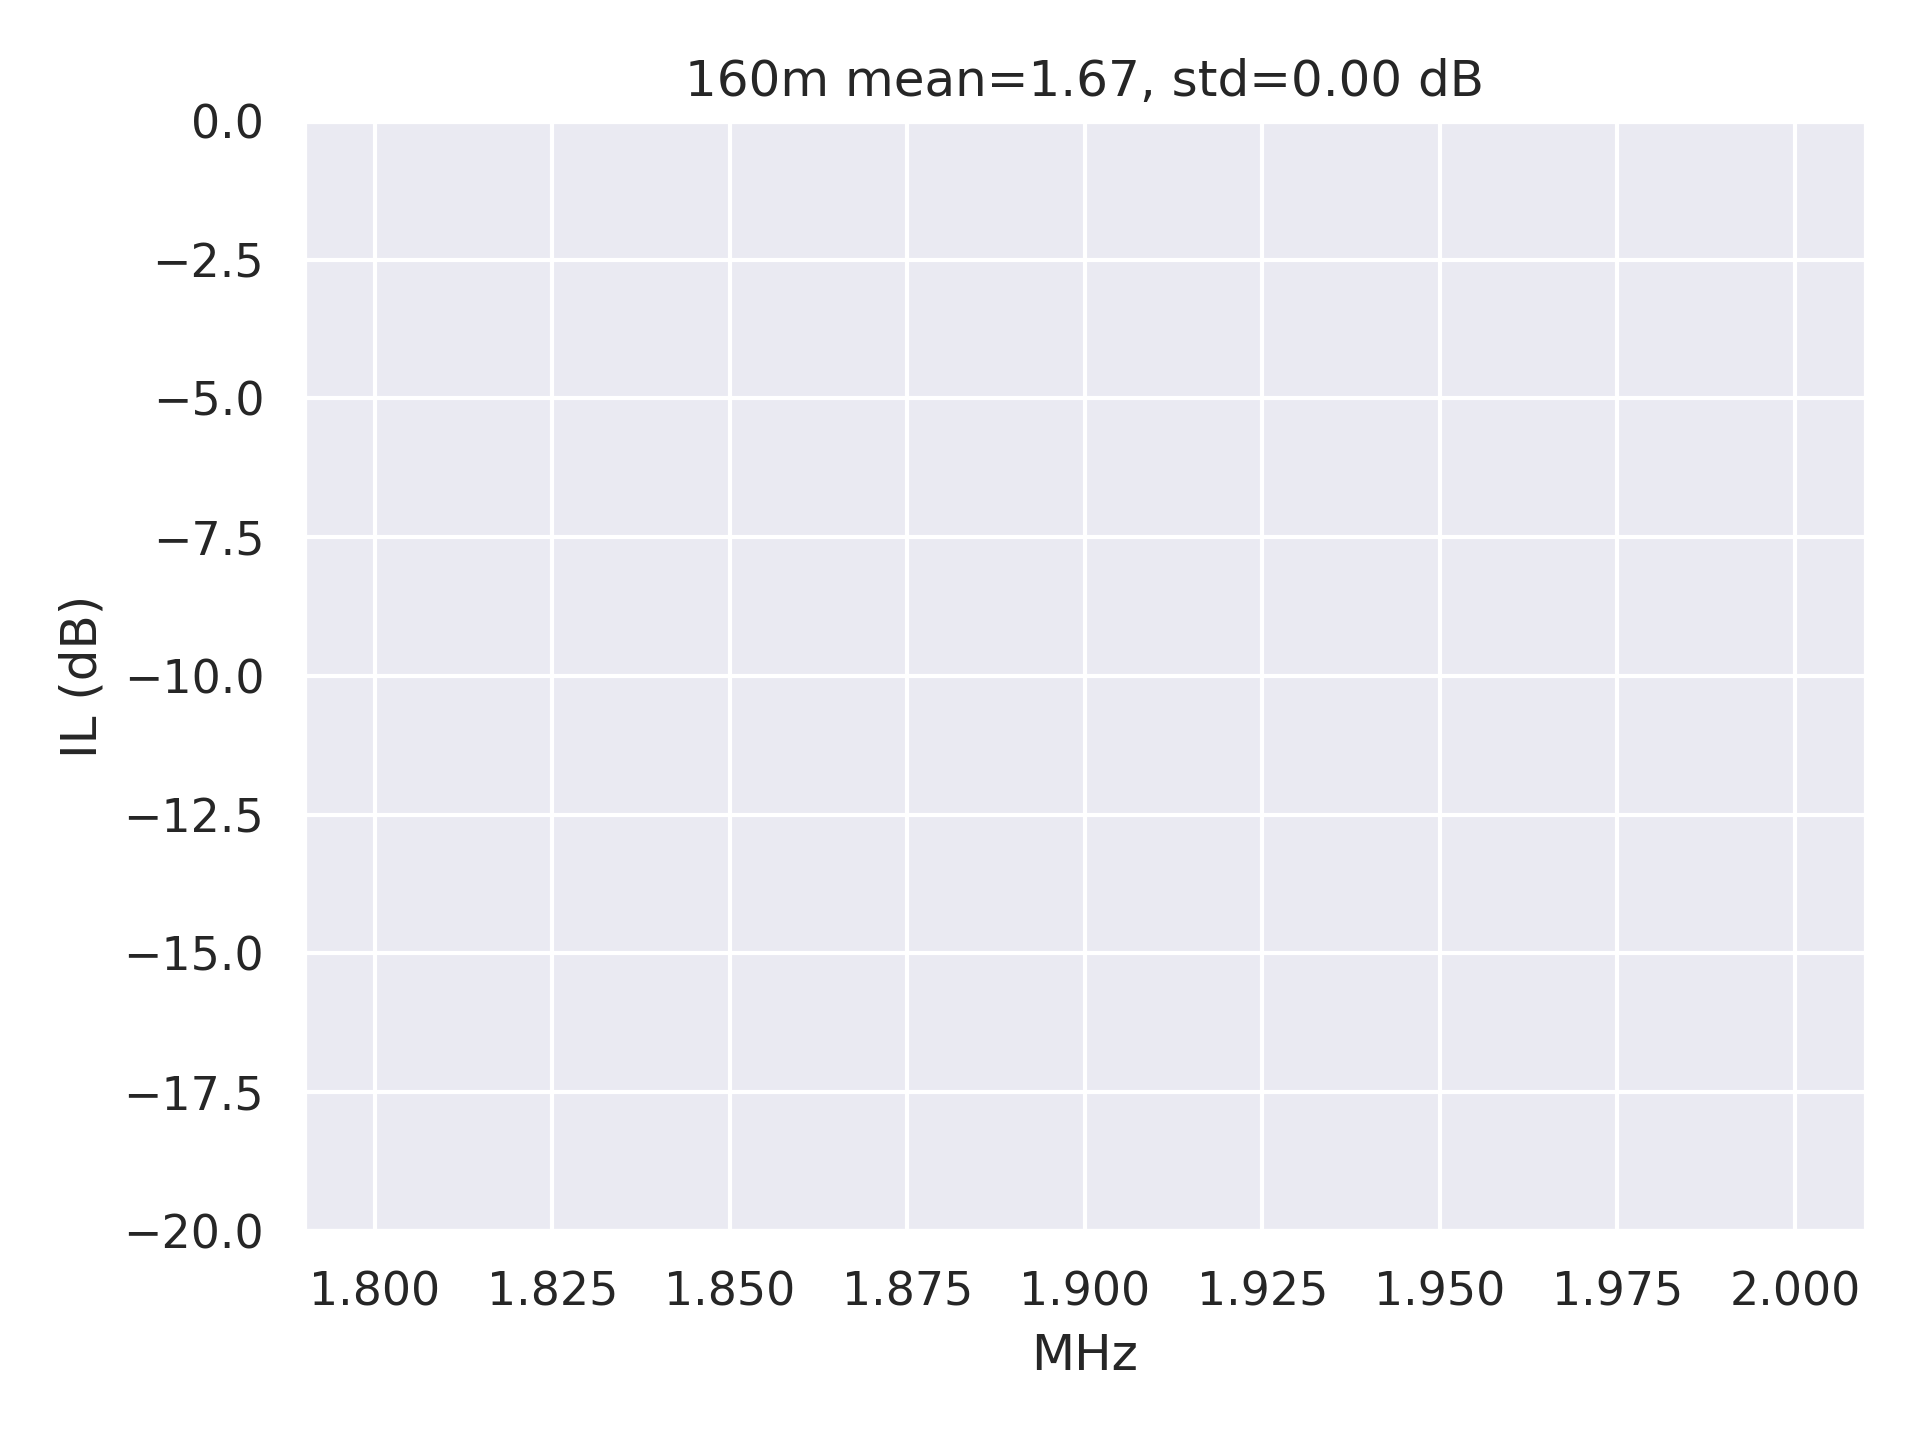
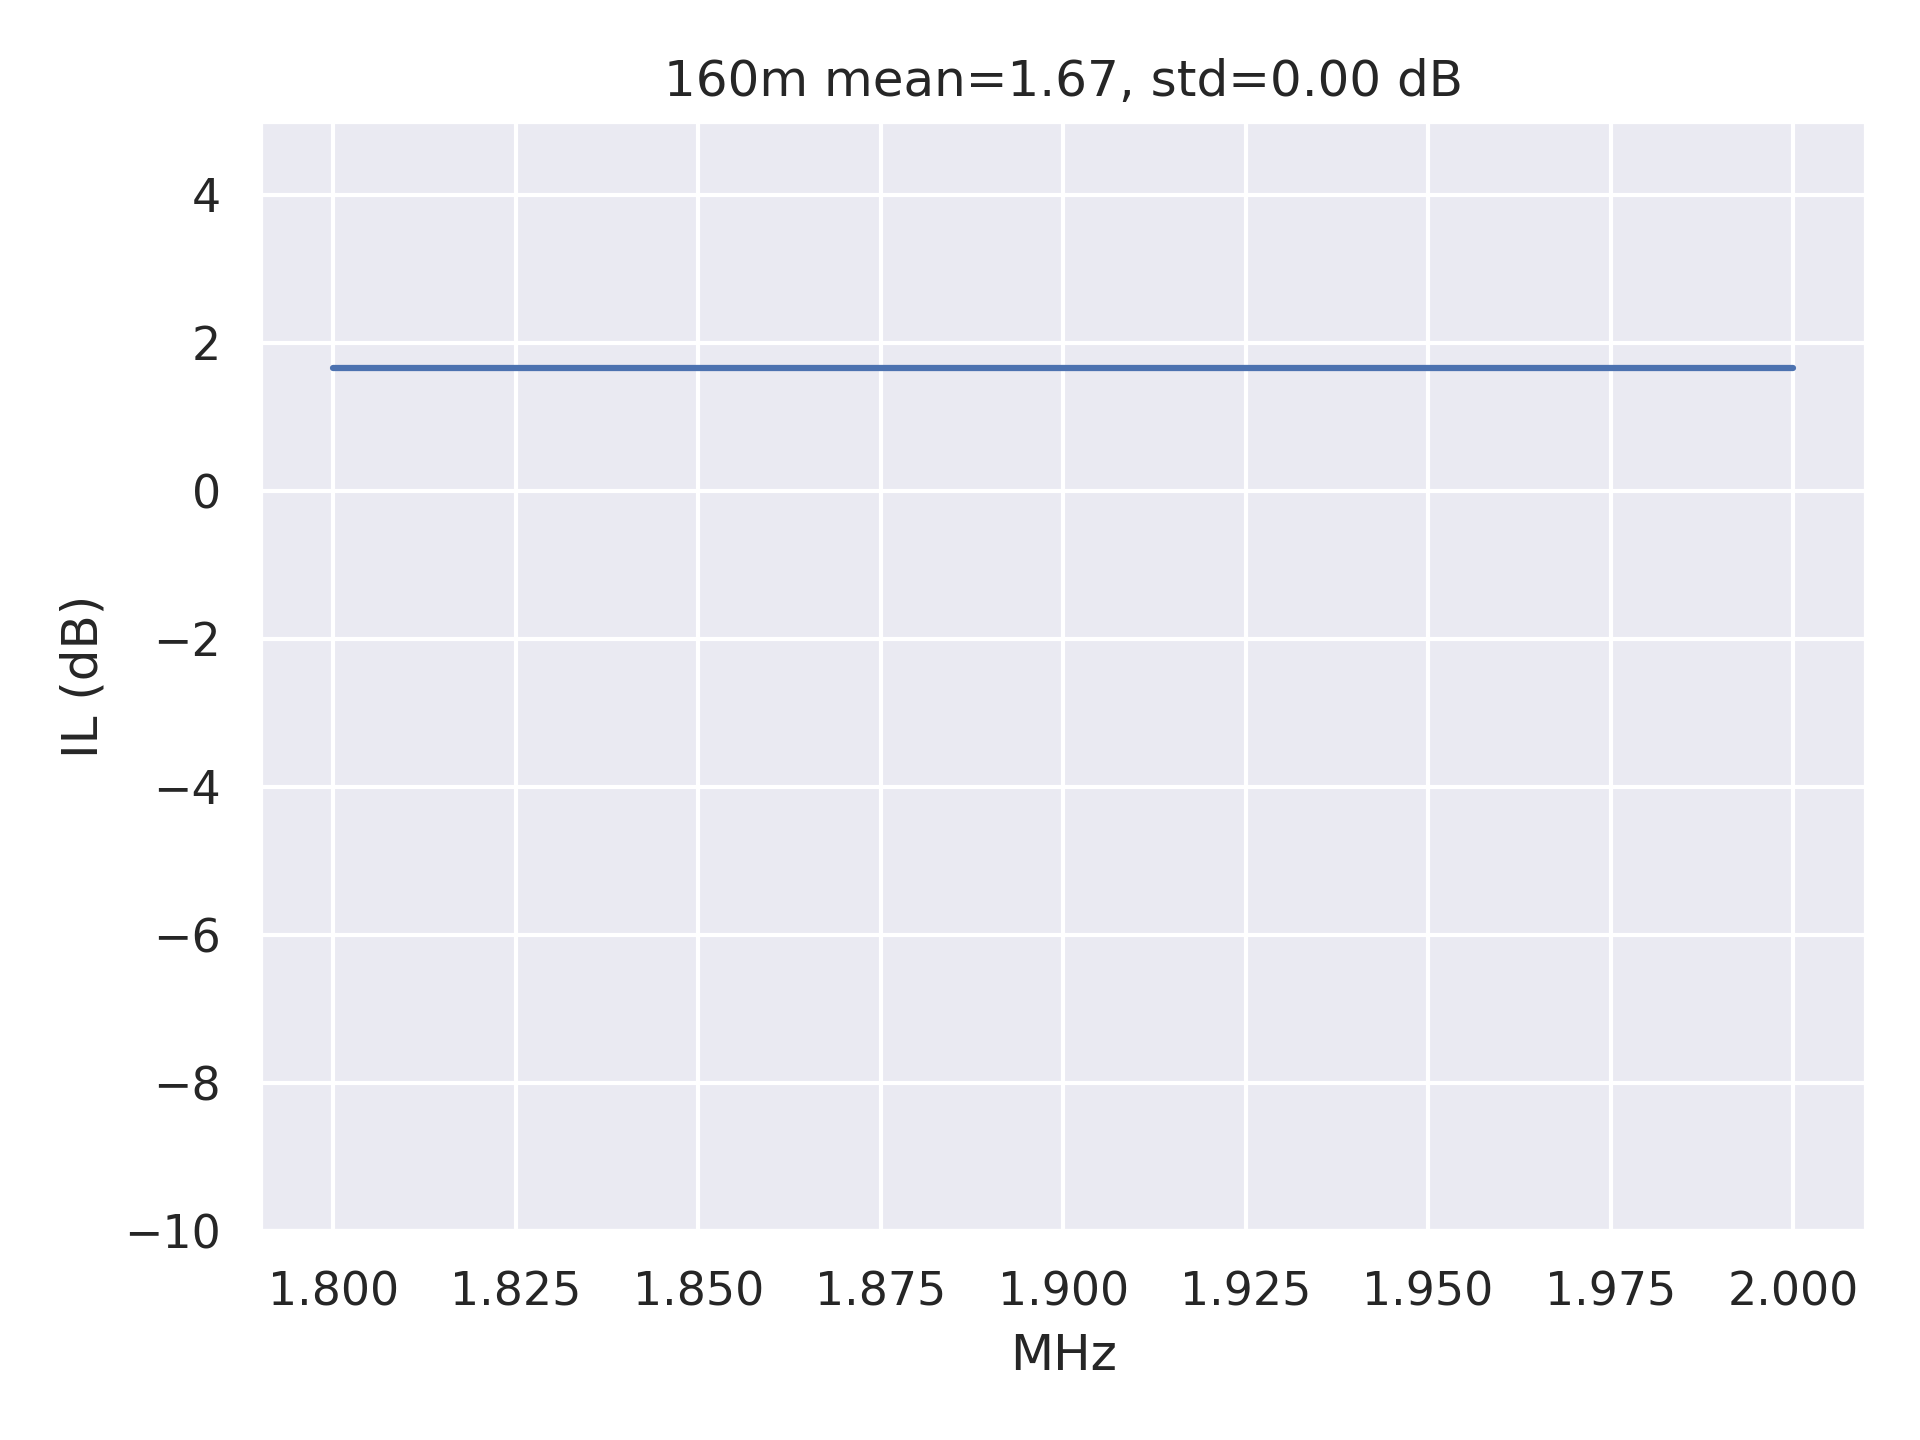
better y axis

diff --git a/align/plot_csv.py b/align/plot_csv.py
@@ -1,5 +1,6 @@
 #!/usr/bin/env python3
 
+import math
 import json
 import pathlib
 import sys
@@ -29,7 +30,9 @@ def main(argv):
             ax.get_legend().remove()
             ax.set(xlabel="MHz", ylabel="IL (dB)", title=title)
             ax.minorticks_on()
-            ax.set_ybound(0., -20.)
+            y_max = 0 if df['amplitudes'].max() < 0. else 5.0
+            y_min = min(math.ceil(df['amplitudes'].min() / -10.) * -10., -10.)
+            ax.set_ybound(y_max, y_min)
 
             plt.tight_layout()
             

diff --git a/align/trace_test.py b/align/trace_test.py
@@ -1,7 +1,6 @@
 #!/usr/bin/env python3
 
 import logging
-import pickle
 import sys
 import time
 
@@ -12,7 +11,6 @@ import pymeasure.adapters
 import pyvisa
 
 import hp8560e
-import noisy
 import ablock
 
 def main(argv):

diff --git a/align/align_band.py b/align/align_band.py
@@ -2,7 +2,6 @@
 
 import datetime
 import logging
-import pickle
 import sys
 import time
 
